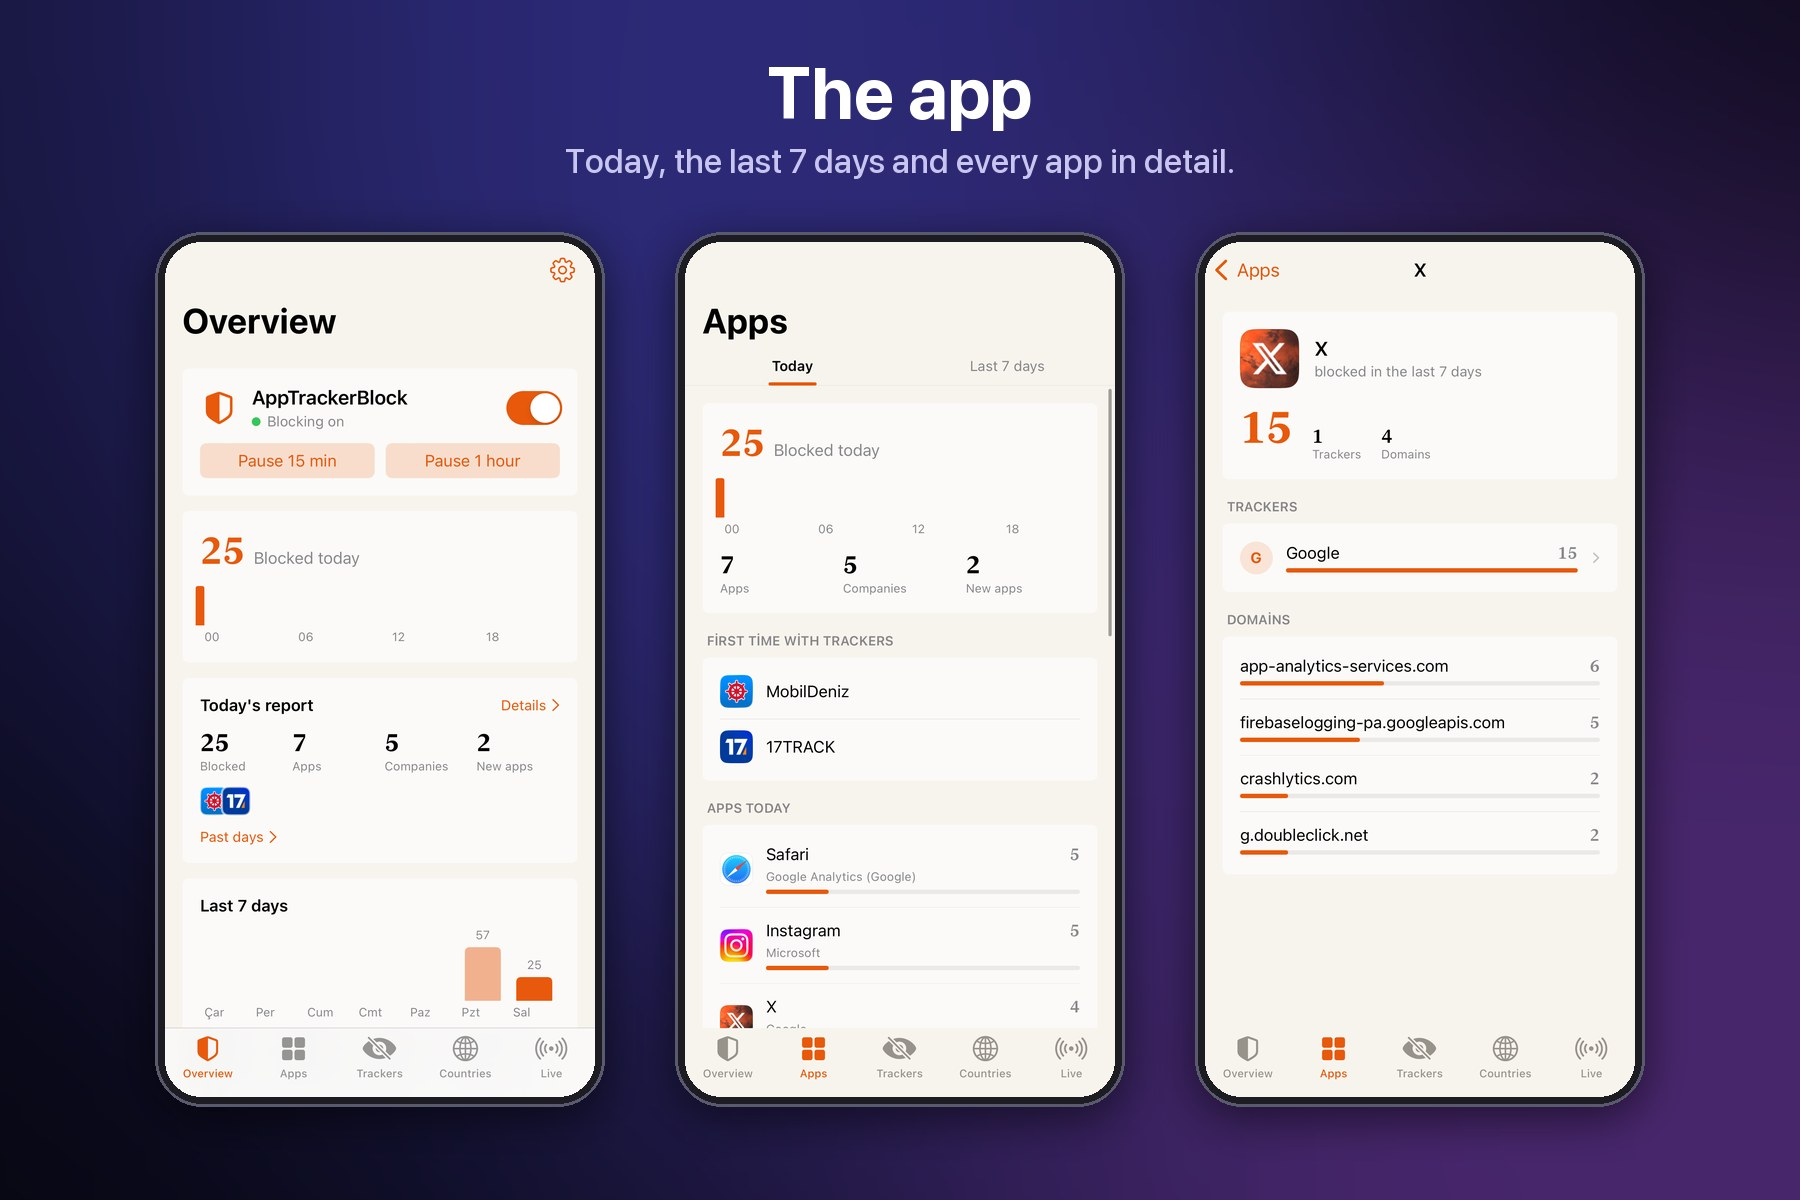
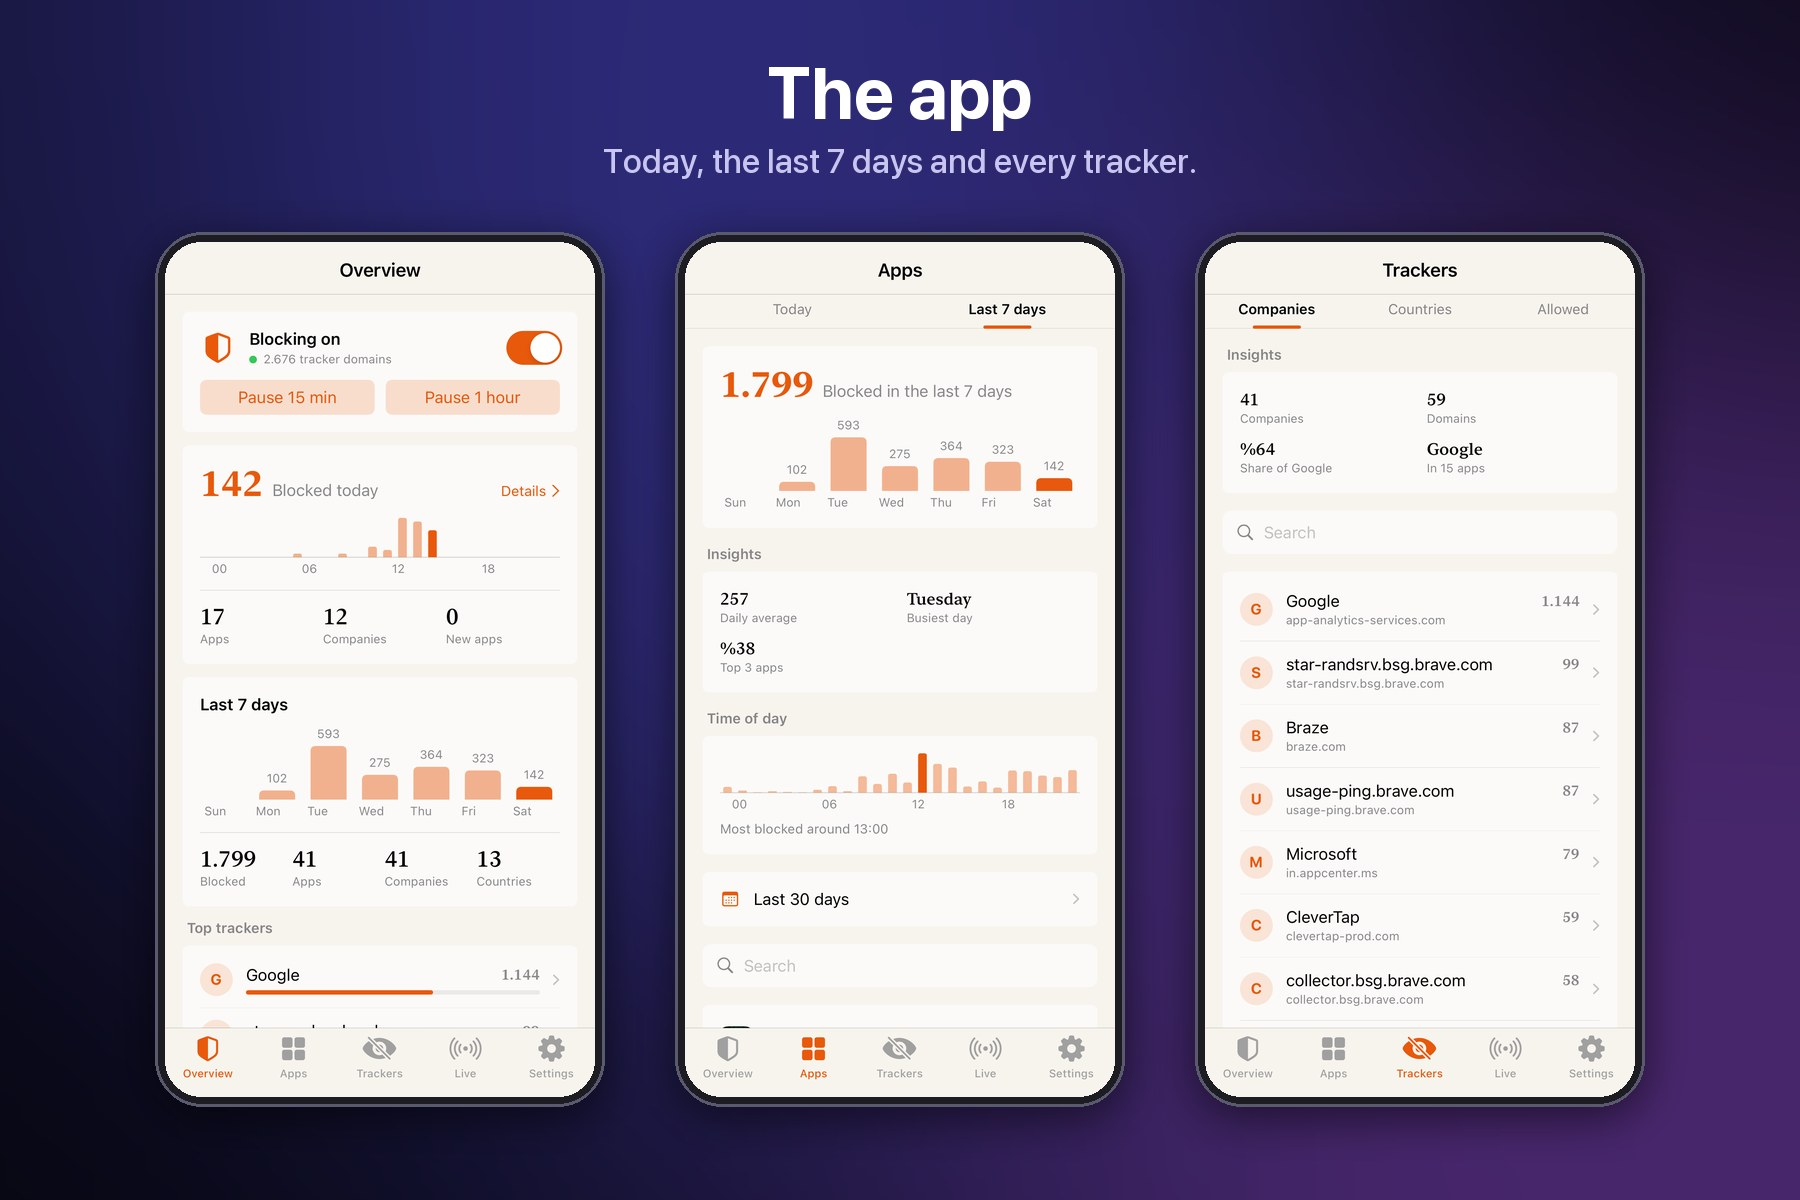
README: 2.1.0

diff --git a/README.md b/README.md
@@ -16,7 +16,8 @@ Add `https://muratkurt.github.io/` in Sileo and install **AppTrackerBlock**. Nee
 ## Features
 
 - **Kernel blocking** — tracker domains are dropped in the network layer, for every app.
-- **App** — today, the last 7 days, every app, company and server country, and a live feed.
+- **App** — Overview, Apps, Trackers, Live and Settings: today, the last 7 and 30 days, every app, company and server country, a real-time feed.
+- **Your rules** — allow a domain everywhere with a long press; turn blocking or Deep mode on and off per app.
 - **Daily report** — at 21:00: what was blocked and which apps reached trackers for the first time.
 - **Quick panel** — from Control Center; pause for 15 minutes or an hour.
 - **Widgets** for the home screen, 9 themes, 12 languages.
